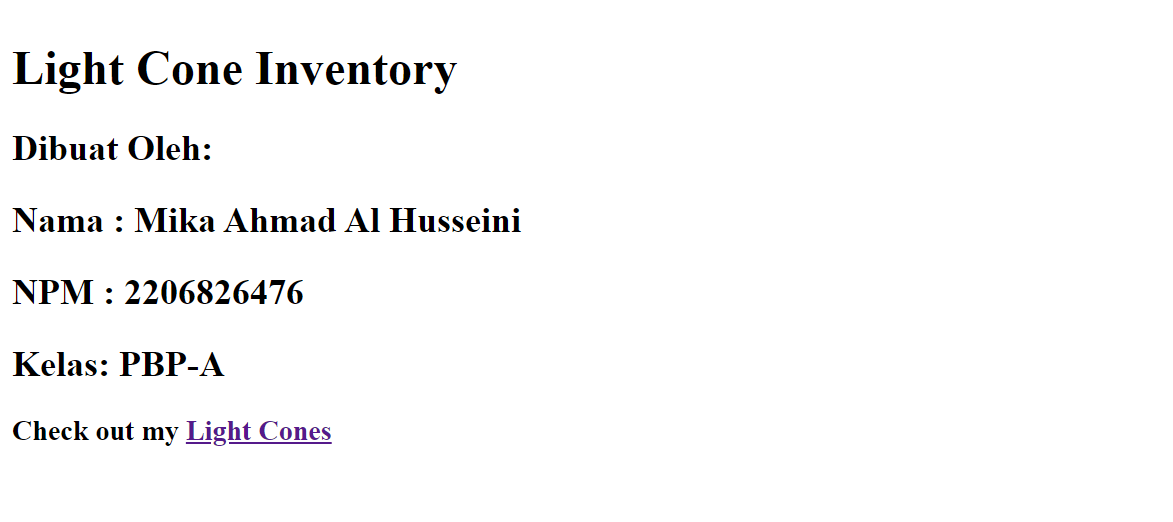
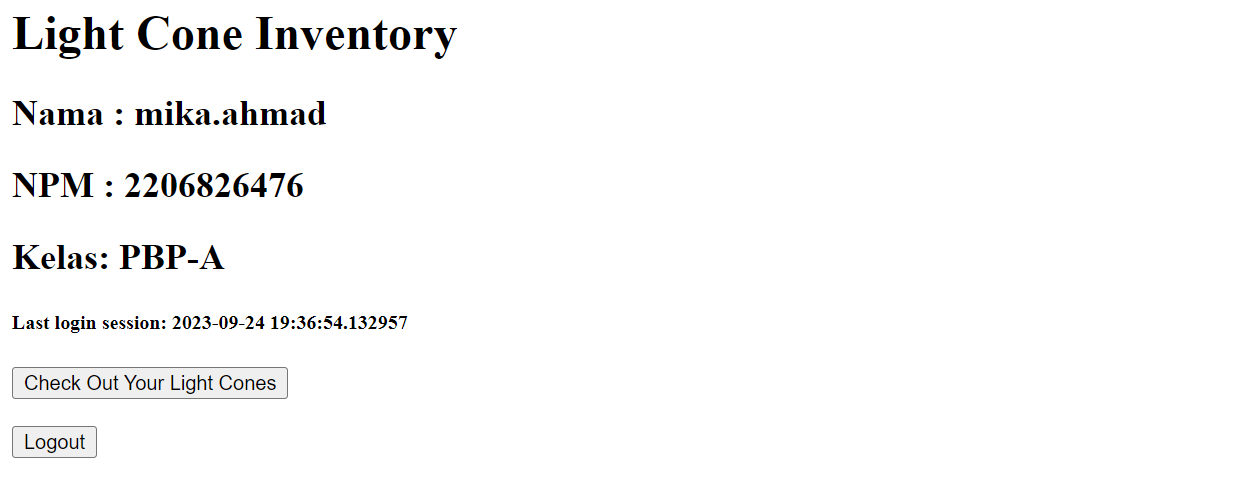
selesai mengerjakan tugas 4

diff --git a/main/templates/lightcones.html b/main/templates/lightcones.html
@@ -1,13 +1,16 @@
 {% block content %}
   <h1>Light Cone Inventory</h1>
-  <h2>You stored {{ jumlah_item }} Light Cones in this app</h2>
-  <a href="{% url 'create_item' %}">
+  <h2>You have stored {{ jumlah_item }} Light Cones in this app</h2>
+  <a href="{% url 'main:create_item' %}">
     <button>
         Add New Light Cones
     </button>
-  </a>
-  <br><br>
-  <a href="/">Back</a> <br><br>
+  </a> <br><br>
+  <a href="{% url 'main:show_main' %}">
+    <button>
+        Back
+    </button>
+  </a> <br><br>
   <table border='1' style="text-align:center">
       <tr>
         <th>Name</th>
@@ -18,6 +21,8 @@
         <th>Base ATK</th>
         <th>Base HP</th>
         <th>Base DEF</th>
+        <th>Update Amount</th>
+        <th style="color:red">Delete Item</th>
       </tr>
 
       {% for item in items %}
@@ -30,6 +35,19 @@
           <td>{{ item.base_atk }}</td>
           <td>{{ item.base_hp }}</td>
           <td>{{ item.base_def }}</td>
+          <td>
+            <button onclick="window.location.href='/increase_amount/{{ item.id }}/';"> 
+              + 1 
+            </button>
+            <button onclick="window.location.href='/decrease_amount/{{ item.id }}/';"> 
+              - 1 
+            </button>
+          </td>
+          <td>
+            <button onclick="window.location.href='/delete_item/{{ item.id }}/';" style="color:red"> 
+              Delete
+            </button>
+          </td>
         </tr>
       {% endfor %}
   </table>

diff --git a/main/templates/login.html b/main/templates/login.html
@@ -1,0 +1,45 @@
+{% extends 'base.html' %}
+
+{% block meta %}
+    <title>Login</title>
+{% endblock meta %}
+
+{% block content %}
+
+<div class = "login">
+
+    <h1>Login</h1>
+
+    <form method="POST" action="">
+        {% csrf_token %}
+        <table>
+            <tr>
+                <td>Username: </td>
+                <td><input type="text" name="username" placeholder="Username" class="form-control"></td>
+            </tr>
+                    
+            <tr>
+                <td>Password: </td>
+                <td><input type="password" name="password" placeholder="Password" class="form-control"></td>
+            </tr>
+
+            <tr>
+                <td></td>
+                <td><input class="btn login_btn" type="submit" value="Login"></td>
+            </tr>
+        </table>
+    </form>
+
+    {% if messages %}
+        <ul>
+            {% for message in messages %}
+                <li>{{ message }}</li>
+            {% endfor %}
+        </ul>
+    {% endif %}     
+        
+    Don't have an account yet? <a href="{% url 'main:register' %}">Register Now</a>
+
+</div>
+
+{% endblock content %}

diff --git a/main/templates/register.html b/main/templates/register.html
@@ -1,0 +1,34 @@
+{% extends 'base.html' %}
+
+{% block meta %}
+    <title>Register</title>
+{% endblock meta %}
+
+{% block content %}  
+
+<div class = "login">
+    
+    <h1>Register</h1>  
+
+        <form method="POST" >  
+            {% csrf_token %}  
+            <table>  
+                {{ form.as_table }}  
+                <tr>  
+                    <td></td>
+                    <td><input type="submit" name="submit" value="Daftar"/></td>  
+                </tr>  
+            </table>  
+        </form>
+
+    {% if messages %}  
+        <ul>   
+            {% for message in messages %}  
+                <li>{{ message }}</li>  
+                {% endfor %}  
+        </ul>   
+    {% endif %}
+
+</div>  
+
+{% endblock content %}

diff --git a/main/templates/main.html b/main/templates/main.html
@@ -1,8 +1,17 @@
 {% block content %}
   <h1>Light Cone Inventory</h1>
-  <h2>Dibuat Oleh: </h2>
   <h2>Nama : {{ name }}</h2>
   <h2>NPM  : {{ npm }}</h2>
   <h2>Kelas: {{ kelas }}</h2>
-  <h3>Check out my <a href="lightcones/">Light Cones</a></h3>
+  <h5>Last login session: {{ last_login }}</h5>
+  <a href="{% url 'main:lightcones' %}">
+    <button>
+       Check Out Your Light Cones
+    </button>
+  </a> <br><br>
+  <a href="{% url 'main:logout' %}">
+    <button>
+        Logout
+    </button>
+  </a>
 {% endblock content %}

diff --git a/main/views.py b/main/views.py
@@ -5,18 +5,27 @@ from django.urls import reverse
 from main.models import Item
 from django.http import HttpResponse
 from django.core import serializers
+from django.shortcuts import redirect
+from django.contrib.auth.forms import UserCreationForm
+from django.contrib import messages  
+from django.contrib.auth import authenticate, login, logout
+from django.contrib.auth.decorators import login_required
+import datetime
+from django.db.models import F
 
 # Create your views here.
+@login_required(login_url='/login')
 def show_main(request):
     context = {
-        'name': 'Mika Ahmad Al Husseini',
+        'name': request.user.username,
         'npm': 2206826476,
         'kelas': 'PBP-A',
+        'last_login': request.COOKIES['last_login'],
     }
     return render(request, "main.html", context)
 
 def lightcones(request):
-    items = Item.objects.all()
+    items = Item.objects.filter(user=request.user)
     jumlah_item = 0
 
     # Menghitung jumlah item berdasarkan amount
@@ -34,8 +43,10 @@ def create_item(request):
     form = ItemForm(request.POST or None)
 
     if form.is_valid() and request.method == "POST":
-        form.save()
-        return HttpResponseRedirect(reverse('lightcones'))
+        item = form.save(commit=False)
+        item.user = request.user
+        item.save()
+        return HttpResponseRedirect(reverse('main:lightcones'))
 
     context = {'form': form}
     return render(request, "create_item.html", context)
@@ -55,3 +66,48 @@ def show_xml_by_id(request, id):
 def show_json_by_id(request, id):
     data = Item.objects.filter(pk=id)
     return HttpResponse(serializers.serialize("json", data), content_type="application/json")
+
+def register(request):
+    form = UserCreationForm()
+
+    if request.method == "POST":
+        form = UserCreationForm(request.POST)
+        if form.is_valid():
+            form.save()
+            messages.success(request, 'Your account has been successfully created!')
+            return redirect('main:login')
+    context = {'form':form}
+    return render(request, 'register.html', context)
+
+def login_user(request):
+    if request.method == 'POST':
+        username = request.POST.get('username')
+        password = request.POST.get('password')
+        user = authenticate(request, username=username, password=password)
+        if user is not None:
+            login(request, user)
+            response = HttpResponseRedirect(reverse("main:show_main")) 
+            response.set_cookie('last_login', str(datetime.datetime.now()))
+            return response
+        else:
+            messages.info(request, 'Sorry, incorrect username or password. Please try again.')
+    context = {}
+    return render(request, 'login.html', context)
+
+def logout_user(request):
+    logout(request)
+    response = HttpResponseRedirect(reverse('main:login'))
+    response.delete_cookie('last_login')
+    return response
+
+def increase_amount(request, item_id):
+    Item.objects.filter(user=request.user).filter(pk=item_id).update(amount=F('amount')+1)
+    return HttpResponse('The amount has been increased by 1. Please go back and refresh the last page.')
+
+def decrease_amount(request, item_id):
+    Item.objects.filter(user=request.user).filter(pk=item_id).update(amount=F('amount')-1)
+    return HttpResponse('The amount has been decreased by 1. Please go back and refresh the last page.')
+
+def delete_item(request, item_id):
+    Item.objects.filter(user=request.user).filter(pk=item_id).delete()
+    return HttpResponse('The item has been deleted. Please go back and refresh the last page.')

diff --git a/main/urls.py b/main/urls.py
@@ -1,5 +1,7 @@
 from django.urls import path
-from main.views import show_main, lightcones, create_item, show_xml, show_json, show_xml_by_id, show_json_by_id 
+from main.views import show_main, lightcones, create_item, show_xml, show_json, show_xml_by_id, show_json_by_id, register, login_user, logout_user, increase_amount, decrease_amount, delete_item
+
+app_name = 'main'
 
 urlpatterns = [
     path('', show_main, name='show_main'),
@@ -9,4 +11,10 @@ urlpatterns = [
     path('json/', show_json, name='show_json'),
     path('xml/<int:id>/', show_xml_by_id, name='show_xml_by_id'),
     path('json/<int:id>/', show_json_by_id, name='show_json_by_id'), 
+    path('register/', register, name='register'),
+    path('login/', login_user, name='login'),
+    path('logout/', logout_user, name='logout'),
+    path('increase_amount/<int:item_id>/', increase_amount, name='increase_amount'),
+    path('decrease_amount/<int:item_id>/', decrease_amount, name='decrease_amount'),
+    path('delete_item/<int:item_id>/', delete_item, name='delete_item'),
 ]

diff --git a/main/migrations/0004_item_user.py b/main/migrations/0004_item_user.py
@@ -1,0 +1,22 @@
+# Generated by Django 4.2.5 on 2023-09-24 10:18
+
+from django.conf import settings
+from django.db import migrations, models
+import django.db.models.deletion
+
+
+class Migration(migrations.Migration):
+
+    dependencies = [
+        migrations.swappable_dependency(settings.AUTH_USER_MODEL),
+        ('main', '0003_alter_item_lc_path'),
+    ]
+
+    operations = [
+        migrations.AddField(
+            model_name='item',
+            name='user',
+            field=models.ForeignKey(default=1, on_delete=django.db.models.deletion.CASCADE, to=settings.AUTH_USER_MODEL),
+            preserve_default=False,
+        ),
+    ]

diff --git a/main/models.py b/main/models.py
@@ -1,7 +1,9 @@
 from django.db import models
+from django.contrib.auth.models import User
 
 # Create your models here.
 class Item(models.Model):
+    user = models.ForeignKey(User, on_delete=models.CASCADE)
     name = models.CharField(max_length=255)
     amount = models.IntegerField()
     description = models.TextField()

diff --git a/README.md b/README.md
@@ -2,7 +2,7 @@
 
 Ini merupakan solusi saya dari [Tugas PBP Ganjil 23/24](https://pbp-fasilkom-ui.github.io/ganjil-2024/assignments). Solusi ini dibuat oleh Mika Ahmad Al Husseini.
 
-## Table of contents
+## Table of Contents
 
 - [Overview](#overview)
   - [Screenshots](#screenshots)
@@ -18,6 +18,12 @@ Ini merupakan solusi saya dari [Tugas PBP Ganjil 23/24](https://pbp-fasilkom-ui.
   - [JSON pada Aplikasi Web Modern](#json-pada-aplikasi-web-modern)
   - [Langkah Pengerjaan III](#langkah-pengerjaan-iii)
   - [Postman Screenshots](#postman-screenshots)
+- [Questions and Answers Tugas 4](#questions-and-answers-tugas-4)
+  - [UserCreationForm](#usercreationform)
+  - [Autentikasi dan Otorisasi](#autentikasi-dan-otorisasi)
+  - [Cookies dalam Aplikasi Web](#cookies-dalam-aplikasi-web)
+  - [Cookies: Apakah Aman?](#cookies-apakah-aman)
+  - [Langkah Pengerjaan IV](#langkah-pengerjaan-iv)
 - [Useful resources](#useful-resources)
 - [Author](#author)
 
@@ -26,12 +32,12 @@ Ini merupakan solusi saya dari [Tugas PBP Ganjil 23/24](https://pbp-fasilkom-ui.
 ### Screenshots
 
 ![](./images/Light-Cone-Inventory.png)
-![](./images/app-screenshot.png)
+![](./images/app-screenshot-3.png)
 
 ### Links
 
 - GitHub URL: [GitHub](https://github.com/Archied10/hsr-lightcone-inventory)
-- Adaptable App URL: [App](https://lightcone-archied10.adaptable.app/)
+- Adaptable App URL: [App](https://lightcone-archied10.adaptable.app/) *(No longer adaptable)*
 
 ## Questions and Answers Tugas 2
 
@@ -127,6 +133,44 @@ Jelaskan bagaimana cara kamu mengimplementasikan checklist di atas secara step-b
 
 - JSON by ID
 ![](./images/json-by-id.png)
+
+## Questions and Answers Tugas 4
+
+### UserCreationForm
+Apa itu Django UserCreationForm, dan jelaskan apa kelebihan dan kekurangannya?
+- Django mempunyai sistem autentikasi bawaan yang bertugas untuk memvalidasi password dan permission. Tentunya perlu suatu fitur untuk membuat user yang dapat menggunakan aplikasi web. `UserCreationForm` merupakan fitur bawaan dari class `ModelForm` pada Django dan digunakan untuk membuat form pengguna baru. `UserCreationForm` diimpor dari `django.contrib.auth.forms`. `UserCreationForm` dapat dengan otomatis membuat form untuk membuat user dengan tiga field, yaitu nama, password, dan konfirmasi password. Akan tetapi, `UserCreationForm` hanya dapat menyediakan ketiga field tersebut. Oleh karena itu, ketika kita ingin mengirim verifikasi email untuk memverifikasi user, kita tidak bisa melakukannya karena `UserCreationForm` tidak menyediakan field email. Untuk mengatasi hal tersebut, kita dapat memodifikasi `UserCreationForm` agar dapat menambahkan field-field yang tidak disediakan.
+
+Referensi: [Working with Forms in Django](https://www.section.io/engineering-education/working-with-forms-in-django/) dan [Django UserCreationForm](https://www.javatpoint.com/django-usercreationform)
+
+### Autentikasi dan Otorisasi
+Apa perbedaan antara autentikasi dan otorisasi dalam konteks Django, dan mengapa keduanya penting?
+- Sistem autentikasi pada Django mengatur autentikasi dan otorisasi. Autentikasi memverifikasi user yang ingin login ke dalam aplikasi web dan otorisasi akan menentukan apa yang dapat dilakukan oleh user yang telah diautentikasi. Autentikasi pada Django penting karena dapat menyimpan user dan menyimpan password user dalam bentuk hash. Autentikasi dapat memverifikasi username dan password dan mengembalikan objek `User` jika username dan passwordnya valid pada backend autentikasi. Otorisasi pada Django penting karena dapat menetapkan permission pada user. Contohnya, mengakses untuk melihat suatu objek diperlukan permission `view` atau `change`, melihat form `add` dan menambahkan objek diperlukan permission `add`, melihat form `change` dan mengubah objek diperlukan permission `change`, dan menghapus objek diperlukan permission `delete`.
+
+Referensi: [User authentication in Django](https://docs.djangoproject.com/en/4.2/topics/auth/) dan [Using the Django authentication system](https://docs.djangoproject.com/en/4.2/topics/auth/default/#topic-authorization)
+
+### Cookies dalam Aplikasi Web
+Apa itu cookies dalam konteks aplikasi web, dan bagaimana Django menggunakan cookies untuk mengelola data sesi pengguna?
+- Cookies merupakan berkas teks dengan ukuran data yang kecil yang dapat mengandung hal-hal seperti username dan password yang digunakan untuk mengidentifikasi komputer ketika menggunakan suatu jaringan. Terdapat cookies khusus untuk mengidentifikasi user spesifik agar dapat meningkatkan pengalaman web browsing. Data yang disimpan pada cookies dibuat oleh server ketika komputer terkoneksi ke jaringan. Data ini akan diberi label ID yang unik untuk komputer pengguna. Ketika cookies diberikan dari komputer ke jaringan server, server akan membaca ID dan memberikan informasi yang spesifik untuk pengguna.
+- Django menyediakan method bawaan untuk mengatur dan memperoleh cookies. Method `set_cookie()` digunakan untuk mengatur cookie dan method `get()` digunakan untuk memperoleh cookie. Dengan menggunakan `set_cookie()`, pengguna dapat mengatur nama cookie, nilai cookie, maksimal umur cookie, tanggal expire cookie, mengirim cookie hanya ketika request berupa HTTPS, JavaScript sisi client tidak dapat mengakses cookie, dan mengizinkan cookie untuk dikirim ke request pada situs yang sama. Cookie dapat dihapus menggunakan method `delete_cookie()`. Untuk mengakses seluruh cookies yang dikirimkan oleh web browser, pengguna dapat menggunakan properti `COOKIES` pada objek `HttpRequest`. Method `get()` dapat digunakan untuk mengakses dictionary pada `COOKIES`.
+
+Referensi: [What are Cookies?](https://www.kaspersky.com/resource-center/definitions/cookies), [Django Cookie](https://www.javatpoint.com/django-cookie), dan [Django Cookies](https://www.pythontutorial.net/django-tutorial/django-cookies/)
+
+### Cookies: Apakah Aman?
+Apakah penggunaan cookies aman secara default dalam pengembangan web, atau apakah ada risiko potensial yang harus diwaspadai?
+- Pada umumnya, penggunaan cookies akan sangat aman ketika diimplementasikan dengan tepat. Akan tetapi, terdapat beberapa hal yang harus diwaspadai. Seorang kriminal dapat mencuri cookies dan menyebabkan banyak kerugian. 
+- Contohnya adalah seperti serangan Man-in-the-middle (MitM). MitM merupakan serangan dimana penyerang akan menghadang data yang dikirimkan antara client dan server. Hal ini dapat dilakukan dengan berbagai cara, seperti mengakses website yang tidak aman, meniru WIFI publik, hingga melalui malware. 
+- Contoh lainnya adalah serangan XSS, yaitu penyerang menginjeksi kode yang berbahaya pada website. Serangan ini dapat merugikan semua orang yang mengakses website tersebut. Jika suatu penyerang berhasil melakukan serangan XSS pada website maka akan memungkinkan penyerang untuk mendapatkan akses ke session cookies dan dapat mengakses website sebagai user lain. 
+- Serangan-serangan yang sudah disebutkan di atas dapat dihindari dengan cara mengizinkan HTTPS pada server, menggunakan sertifikat SSL dari otoritas yang terpercaya, dan pastikan kode program menggunakan HTTPS bukan HTTP yang tidak aman.
+
+Referensi: [Everything You Need to Know About Cookies for Web Development](https://www.freecodecamp.org/news/everything-you-need-to-know-about-cookies-for-web-development/)
+
+### Langkah Pengerjaan IV
+Jelaskan bagaimana cara kamu mengimplementasikan checklist di atas secara step-by-step (bukan hanya sekadar mengikuti tutorial).
+- Pada `views.py`, saya membuat tiga fungsi, yaitu `register()`, `login_user()`, dan `logout_user()`. Fungsi `register()` mengandung fitur UserCreationForm untuk dapat membuat user yang baru. Fungsi `login_user()` akan mengautentikasi username dan password yang dimasukkan oleh user dan jika berhasil akan mengatur cookie dan menuju `show_main`. Pada fungsi `show_main()` ditambahkan `@login_required(login_url='/login')` agar hanya bisa diakses ketika user sudah login. Fungsi `logout_user()` akan menghapus cookie dan kembali ke halaman login. Masing-masing fungsi diimpor ke `urls.py` dan ditambahkan pathnya.
+- Selanjutnya, saya membuat dua akun dengan username **mika.ahmad** dan **archied10**. Pada tiap akun, saya setidaknya menambahkan tiga item yang berbeda-beda pada inventory. 
+- Pada `models.py`, saya menambahkan kode yang akan menghubungkan satu produk dengan satu user. Pada fungsi `create_item()`, saya menambahkan kode agar suatu item dapat ditandai bahwa item tersebut dimiliki oleh user yang sedang terotorisi. Pada fungsi `show_main()`, saya memfilter item agar hanya item yang dimiliki oleh user yang terotorisasi yang akan ditampilkan dan juga mengubah nama yang akan ditampilkan menjadi username dari user. Terakhir, saya menyimpan perubahan dan melakukan migrasi model.
+- Cookie yang sudah diatur pada fungsi `login_user()`, yaitu berupa last login ditampilkan pada `main.html`.
+- Terakhir, saya menambahkan kolom baru pada tabel di berkas `lightcones.html`. Kolom pertama berisikan button yang berfungsi untuk mengupdate nilai amount item (menambahkan dan mengurangkan) dan kolom kedua berfungsi untuk menghapus item. Saya membuat masing-masing satu fungsi pada `views.py` untuk tiap button, yaitu `increase_amount()`, `decrease_amount()`, dan `delete_item()`. Masing-masing fungsi diimpor ke `urls.py` dan ditambahkan pathnya. Fungsi tersebut berfungsi untuk memodifikasi nilai pada database dan ketika berhasil akan mengembalikan `HttpResponse`.
 
 ## Useful resources
 
